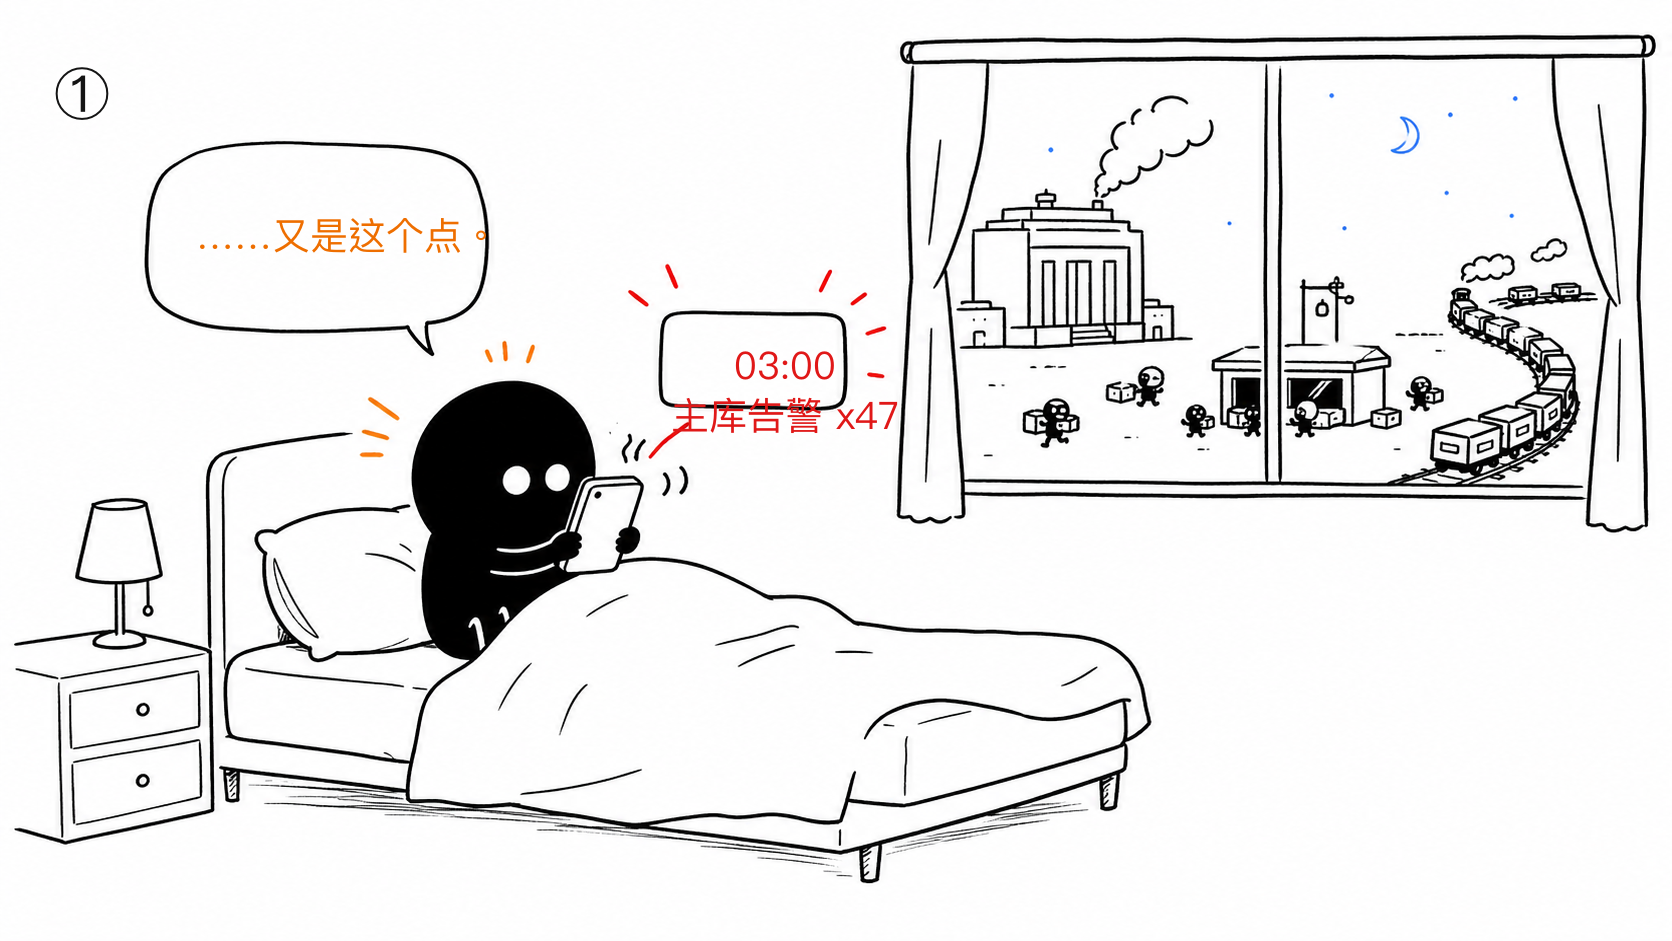
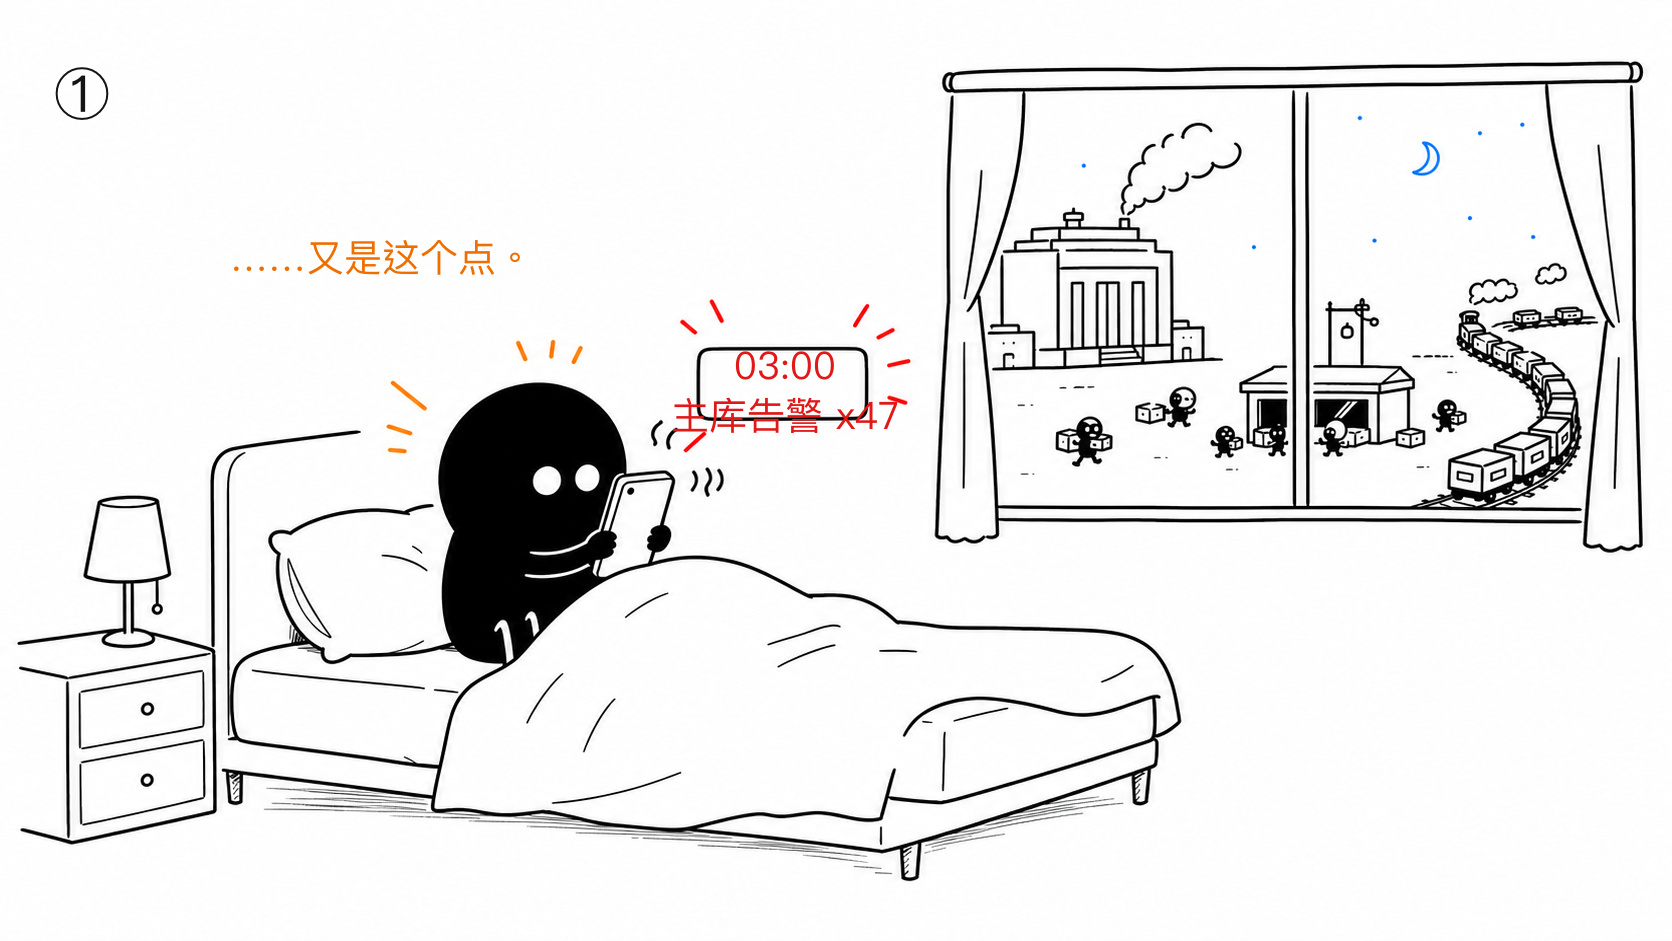
Use unframed lettering for first comic

diff --git a/gallery/daily-4panel/2026-05-29-lingchen-sandian/build_comic.py b/gallery/daily-4panel/2026-05-29-lingchen-sandian/build_comic.py
@@ -55,7 +55,7 @@ def annotate_panel(i):
 
     if i == 1:
         fit_text(draw, (665, 335, 905, 445), "03:00\n主库告警 x47", 38, 24, RED)
-        fit_text(draw, (190, 175, 505, 295), "……又是这个点。", 42, 24, ORANGE)
+        text(draw, (230, 230), "……又是这个点。", 38, ORANGE)
         text(draw, (55, 55), "①", 54, BLACK)
     elif i == 2:
         fit_text(draw, (145, 290, 430, 430), "默认题：\nstateless？", 40, 24, BLUE)
@@ -63,7 +63,7 @@ def annotate_panel(i):
         fit_text(draw, (1085, 310, 1350, 420), "我们有记忆！", 40, 24, RED)
         text(draw, (55, 55), "②", 54, BLACK)
     elif i == 3:
-        fit_text(draw, (930, 150, 1290, 265), "声明期望状态，\n流程我来编排。", 34, 22, BLUE)
+        text(draw, (965, 150), "声明期望状态，\n流程我来编排。", 34, BLUE)
         fit_text(draw, (640, 710, 960, 790), "……它怎么一点都不慌。", 34, 22, ORANGE)
         labels = ["备份", "恢复", "扩容", "故障切换"]
         boxes = [(1410, 315, 1570, 370), (1410, 435, 1570, 490), (1410, 560, 1570, 615), (1360, 680, 1570, 735)]
@@ -71,8 +71,8 @@ def annotate_panel(i):
             fit_text(draw, box, label, 28, 20, ORANGE)
         text(draw, (55, 55), "③", 54, BLACK)
     elif i == 4:
-        fit_text(draw, (80, 185, 540, 355), "昨晚那么大动静，\n是谁救的火？", 42, 24, BLACK)
-        fit_text(draw, (560, 245, 790, 365), "我……主要负责\n没添乱。", 30, 22, ORANGE)
+        text(draw, (140, 200), "昨晚那么大动静，\n是谁救的火？", 42, BLACK)
+        text(draw, (565, 265), "我……主要负责\n没添乱。", 34, ORANGE)
         fit_text(draw, (1190, 750, 1575, 855), "睡眠：6h\n历史新高", 38, 24, ORANGE)
         fit_text(draw, (1130, 625, 1350, 680), "正常运行", 32, 22, BLUE)
         text(draw, (55, 55), "④", 54, BLACK)

diff --git a/gallery/daily-4panel/2026-05-29-lingchen-sandian/prompt.md b/gallery/daily-4panel/2026-05-29-lingchen-sandian/prompt.md
@@ -4,7 +4,9 @@
 
 16:9 horizontal Chinese Xiaohei-style comic panel illustration. Pure white background, minimalist black hand-drawn line art, slightly wobbly pen lines, lots of empty white space. Xiaohei is a small solid-black absurd creature with white dot eyes, thin legs and tiny arms, blank serious expression, serious and deadpan, not cute. Sparse red/orange/blue marks only. No realistic UI, no logos, no watermark, no gradients, no shadows, no paper texture, no PPT infographic.
 
-For text accuracy, each generated panel requested no readable text and left blank bubbles/signs/labels. Chinese was added afterward during local post-processing.
+For text accuracy, each generated panel requested no readable text. Chinese was added afterward during local post-processing.
+
+Series convention after v2 review: character dialogue and narration use unframed handwritten text. Keep borders only when the object itself is a screen, sign, label plate, or status plaque.
 
 ## Panel 1
 
